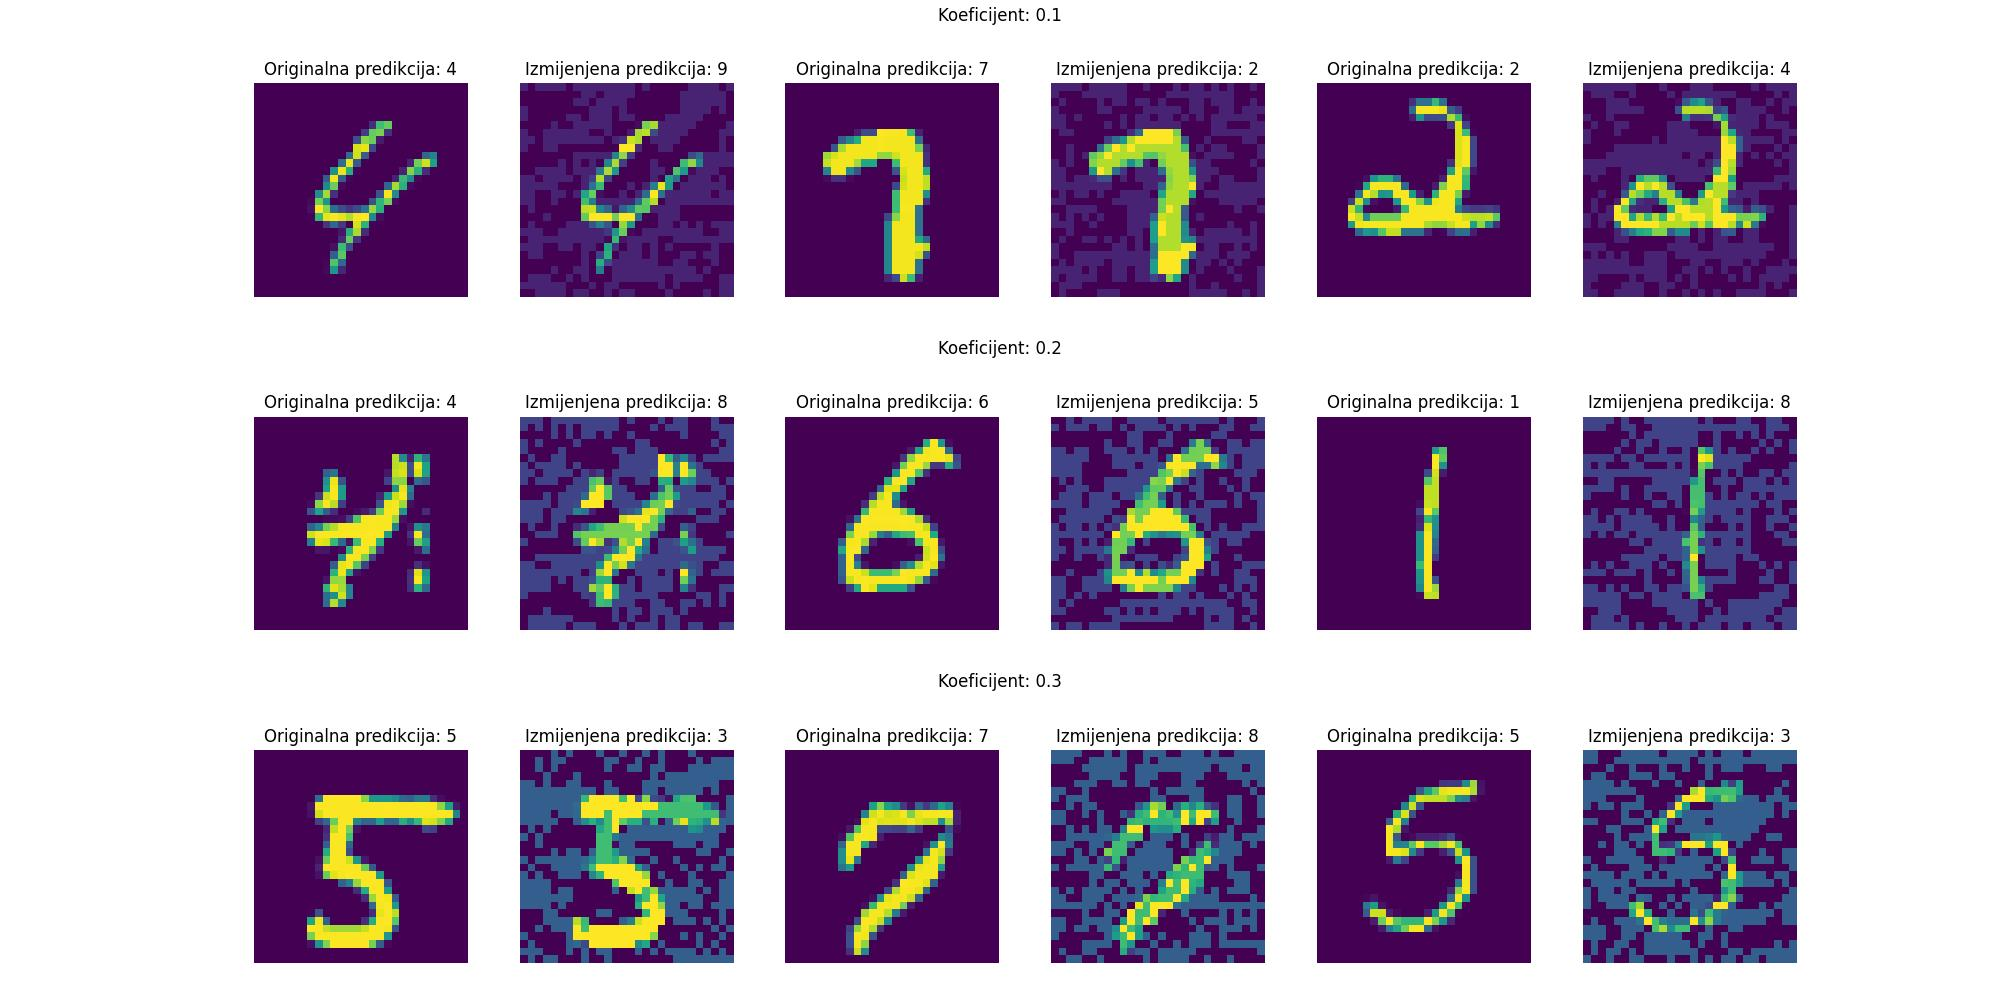
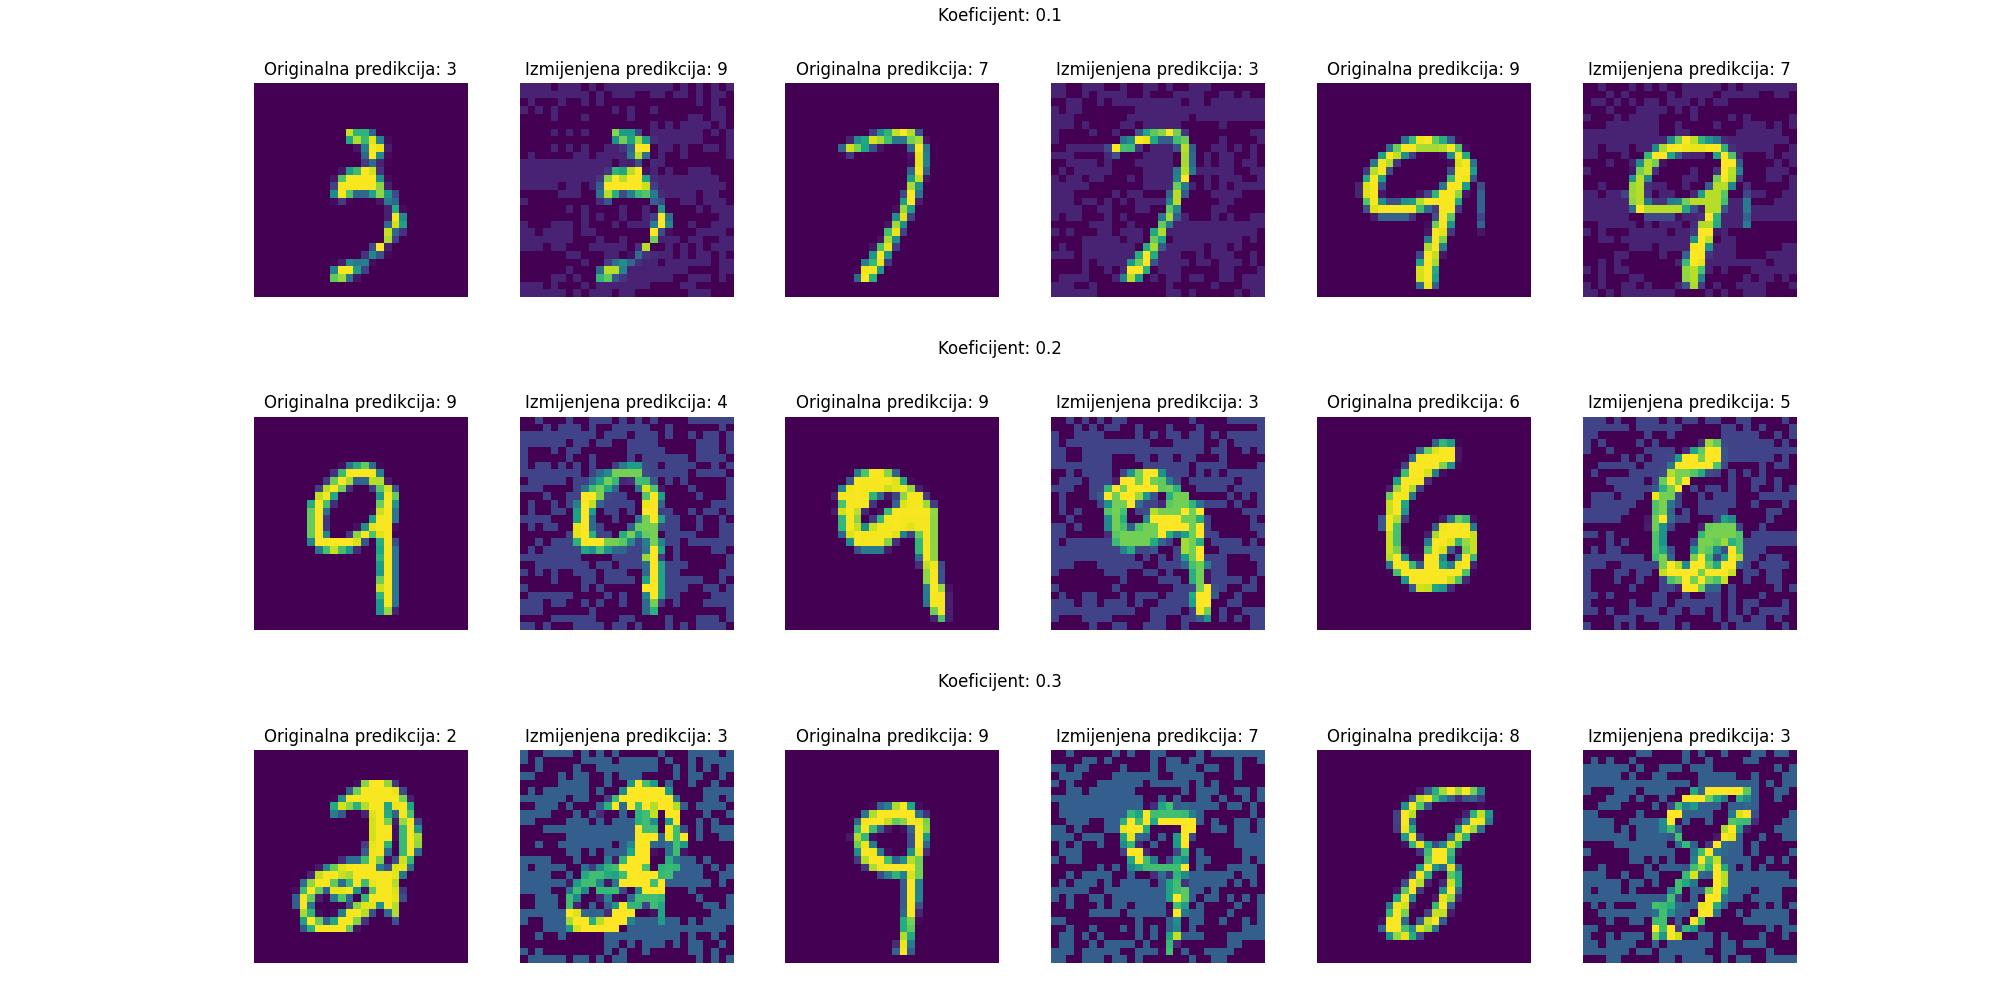
bugfix

diff --git a/attack_funcs.py b/attack_funcs.py
@@ -58,9 +58,6 @@ def attack_model_pgd(model, x_test, y_test, eps_list=[0.1, 0.2, 0.3], koefs_it=[
     device = torch.device("cuda" if torch.cuda.is_available() else "cpu")
     model.eval()
 
-    y_test_oh = class_to_onehot(y_test.detach().cpu())
-    y_test_oh = torch.tensor(y_test_oh).to(device)
-
     adv_dict = dict()
     adv_accs = dict()
 
@@ -69,7 +66,10 @@ def attack_model_pgd(model, x_test, y_test, eps_list=[0.1, 0.2, 0.3], koefs_it=[
         print(f"Attacking with coefficient: {eps}...")
         permutations = torch.randperm(len(x_test))
         x_test = x_test.detach()[permutations]
-        y_test_oh = y_test_oh.detach()[permutations]
+        y_test = y_test.detach()[permutations]
+
+        y_test_oh = class_to_onehot(y_test.detach().cpu())
+        y_test_oh = torch.tensor(y_test_oh).to(device)
 
         probs = model(x_test.to(device))
         y_pred = np.argmax(probs.detach().cpu().numpy(), axis=1)
@@ -102,9 +102,6 @@ def attack_model_fgsm(model, x_test, y_test, eps_list=[0.1, 0.2, 0.3]):
     device = torch.device("cuda" if torch.cuda.is_available() else "cpu")
     model.eval()
 
-    y_test_oh = class_to_onehot(y_test.detach().cpu())
-    y_test_oh = torch.tensor(y_test_oh).to(device)
-
     adv_dict = dict()
     adv_accs = dict()
 
@@ -113,7 +110,10 @@ def attack_model_fgsm(model, x_test, y_test, eps_list=[0.1, 0.2, 0.3]):
         print(f"Attacking with coefficient: {eps}...")
         permutations = torch.randperm(len(x_test))
         x_test = x_test.detach()[permutations]
-        y_test_oh = y_test_oh.detach()[permutations]
+        y_test = y_test.detach()[permutations]
+
+        y_test_oh = class_to_onehot(y_test.detach().cpu())
+        y_test_oh = torch.tensor(y_test_oh).to(device)
 
         probs = model(x_test.to(device))
         y_pred = np.argmax(probs.detach().cpu().numpy(), axis=1)

diff --git a/graphing_funcs.py b/graphing_funcs.py
@@ -94,7 +94,7 @@ def graph_attack(adv_dict):
             i += 1
 
     plt.subplots_adjust(top=0.75)
-    #plt.savefig('./stats/adversarial_examples_pgd.jpg')
+    # plt.savefig('./stats/adversarial_examples_pgd.jpg')
     plt.show()
 
 def graph_attack_accuracies(adv_accs):
@@ -106,5 +106,5 @@ def graph_attack_accuracies(adv_accs):
     plt.xlabel("Coefficients")
     plt.ylabel("Accuracies")
     plt.title("Coefficient/Accuracy graph for convolutional model")
-    #plt.savefig('./stats/graph_attack_accuracies_pgd.jpg')
+    # plt.savefig('./stats/graph_attack_accuracies_pgd.jpg')
     plt.show()

diff --git a/projekt.py b/projekt.py
@@ -209,8 +209,8 @@ if __name__ == "__main__":
     # acc, _ , _ = eval_perf_multi(y_test.detach().cpu().numpy(), preds)
     # print(acc)
 
-    attack_model_fgsm(model, x_test, y_test)
-    #attack_model_pgd(model, x_test, y_test)
+    # attack_model_fgsm(model, x_test, y_test)
+    attack_model_pgd(model, x_test, y_test)
 
     # model = FCmodel(torch.relu, 784, 250, 10).to(device)
     # losses, train_accuracies = train(model, x_train, y_train, param_niter=300, param_delta=0.07, batch_size=50, epoch_print=30)
